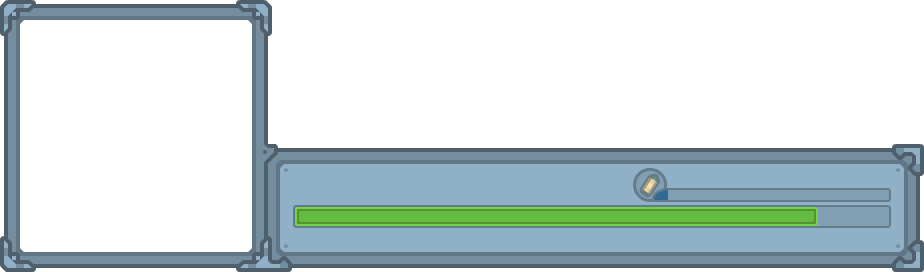
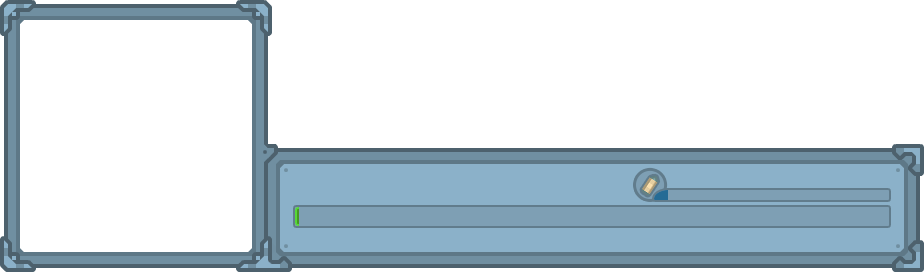
Add health and velocity client-server compensation

Changed region(s): [[0.303, 0.7353, 0.9091, 0.8529]]

diff --git a/src/Controller/GameController.php b/src/Controller/GameController.php
@@ -22,7 +22,7 @@ use App\Server\Protocol\Message;
 use App\Server\Protocol\SessionEstablish;
 use App\Server\Protocol\UpdateTank;
 use App\System\Texture;
-use App\Ui\Map;
+use App\Ui\UserInterface;
 use FFI\CData;
 use Serafim\SDL\Event;
 use Serafim\SDL\Kernel\Keyboard\ScanCode;
@@ -53,14 +53,14 @@ class GameController extends Controller
     private Texture $bg;
 
     /**
-     * @var Map|null
+     * @var UserInterface|null
      */
-    private ?Map $map = null;
+    private ?UserInterface $map = null;
 
     /**
-     * @var Connection
+     * @var Connection|null
      */
-    private Connection $connection;
+    private ?Connection $connection = null;
 
     /**
      * @var array|Tank[]
@@ -85,10 +85,47 @@ class GameController extends Controller
         $this->tanks = new TankLoader(self::RESOURCES_DIR);
         $this->guns = new GunLoader(self::RESOURCES_DIR);
         $this->bg = Texture::fromPathname(self::RESOURCES_DIR . '/bg.png');
+        $this->map = new UserInterface();
 
         parent::__construct();
 
         $this->connection = $this->connect($uri);
+        //$this->offline();
+    }
+
+    /**
+     * @return void
+     */
+    private function offline(): void
+    {
+        $this->tank = $this->createTank(
+            'tank/black/tank.json',
+            'gun/1/gun.json'
+        );
+
+        $this->map->addPlayerTank($this->tank);
+
+        $this->objects[] = $this->tank;
+    }
+
+    /**
+     * @param $message
+     */
+    private function send($message): void
+    {
+        if ($this->connection) {
+            $this->connection->write($message);
+        }
+    }
+
+    /**
+     * @param string $tank
+     * @param string $gun
+     * @return Tank
+     */
+    private function createTank(string $tank, string $gun): Tank
+    {
+        return $this->tanks->load($tank, $this->guns->load($gun));
     }
 
     /**
@@ -122,11 +159,13 @@ class GameController extends Controller
     private function onUpdateTank(UpdateTank $cmd): void
     {
         $tank = $this->objects[$cmd['id']];
-        $tank->dest->x = (float)$cmd['pos-x'];
-        $tank->dest->y = (float)$cmd['pos-y'];
+        $tank->dest->x = $cmd['pos-x'];
+        $tank->dest->y = $cmd['pos-y'];
+        $tank->velocity->x = $cmd['vel-x'];
+        $tank->velocity->y = $cmd['vel-y'];
         $tank->rotation->angle = (float)$cmd['angle'];
-        $tank->gun->rotation->angle =
-            $tank->gun->rotation->target = (float)$cmd['gun'];
+        $tank->gun->rotation->angle = $tank->gun->rotation->target
+            = (float)$cmd['gun'];
     }
 
     /**
@@ -134,13 +173,14 @@ class GameController extends Controller
      */
     private function onCreateTank(CreateTank $cmd): void
     {
-        $gun = $this->guns->load($cmd['gun']);
-        $tank = $this->tanks->load($cmd['tank'], $gun);
+        $tank = $this->createTank($cmd['tank'], $cmd['gun']);
 
         if ($cmd instanceof CreatePlayerTank) {
             $this->id = $cmd['id'];
             $this->tank = $tank;
-            $this->map = new Map($tank);
+            $this->map->addPlayerTank($tank);
+        } else {
+            $this->map->addEnemyTank($tank);
         }
 
         $tank->dest->x = $cmd['position.x'];
@@ -257,28 +297,38 @@ class GameController extends Controller
      */
     public function update(float $delta): void
     {
-        $this->connection->tick();
+        if ($this->connection) {
+            $this->connection->tick();
+        }
 
         foreach ($this->objects as $tank) {
             $tank->update($delta);
             $tank->limit(1920, 1080);
         }
 
-        if (!$this->map) {
+        $this->map->update();
+
+        if (! $this->tank) {
             return;
         }
 
-        $this->map->update();
+        $this->tank->health->current -= 1 * $delta;
+
+        if ($this->tank->health->current < 0) {
+            $this->tank->health->reset();
+        }
 
         $message = new UpdateTank([
             'id'    => $this->id,
             'pos-x' => (float)$this->tank->dest->x,
             'pos-y' => (float)$this->tank->dest->y,
+            'vel-x' => (float)$this->tank->velocity->x,
+            'vel-y' => (float)$this->tank->velocity->x,
             'angle' => (float)$this->tank->rotation->angle,
             'gun'   => (float)$this->tank->gun->rotation->angle,
         ]);
 
-        $this->connection->write($message);
+        $this->send($message);
     }
 
     /**

diff --git a/src/Ui/UserInterface.php b/src/Ui/UserInterface.php
@@ -17,10 +17,9 @@ use App\System\Texture;
 use FFI\CData;
 use Serafim\SDL\FRect;
 use Serafim\SDL\Kernel\Video\RendererFlip;
-use Serafim\SDL\Rect;
 use Serafim\SDL\SDL;
 
-class Map
+class UserInterface
 {
     use Kernel;
 
@@ -46,18 +45,19 @@ class Map
     private CData $reloadingDest;
 
     /**
-     * @var Tank
+     * @var Tank|null
      */
-    private Tank $tank;
+    private ?Tank $tank = null;
 
     /**
-     * @param Tank $tank
+     * @var Tank[]
      */
-    public function __construct(Tank $tank)
+    private array $enemyTanks = [];
+
+    public function __construct()
     {
         $this->bootKernel();
 
-        $this->tank = $tank;
         $this->bg = Texture::fromPathname(self::ROOT . '/bg.png');
         $this->overlay = Texture::fromPathname(self::ROOT . '/overlay.png');
         $this->user = Texture::fromPathname(self::ROOT . '/player.png');
@@ -96,15 +96,26 @@ class Map
         $this->userDest->y = 30;
     }
 
+    /**
+     * @param Tank $tank
+     */
+    public function addEnemyTank(Tank $tank): void
+    {
+        $this->enemyTanks[] = $tank;
+    }
+
+    public function addPlayerTank(Tank $tank): void
+    {
+        $this->tank = $tank;
+    }
+
     public function update(): void
     {
-        $this->userDest->x = $this->tank->dest->x / 1920 * 110 + 10 + $this->uiDest->x;
-        $this->userDest->y = $this->tank->dest->y / 1080 * 110 + 10 + $this->uiDest->y;
+        if ($this->tank) {
+            $delta = $this->tank->gun->shot->reloading / $this->tank->gun->shot->speed;
 
-        //
-        $delta = $this->tank->gun->shot->reloading / $this->tank->gun->shot->speed;
-
-        $this->reloadingDest->w = self::RELOADING_MAX - $delta * self::RELOADING_MAX;
+            $this->reloadingDest->w = self::RELOADING_MAX - $delta * self::RELOADING_MAX;
+        }
     }
 
     public function render(): void
@@ -116,15 +127,35 @@ class Map
             SDL::addr($this->vp->transform($this->mapDest, false))
         );
 
-        $this->sdl->SDL_RenderCopyExF(
-            $this->renderer->ptr,
-            $this->user->ptr,
-            null,
-            SDL::addr($this->vp->transform($this->userDest, false)),
-            $this->tank->rotation->angle,
-            SDL::addr($this->userCenter),
-            RendererFlip::SDL_FLIP_NONE
-        );
+        if ($this->tank !== null) {
+            $this->userDest->x = $this->tank->dest->x / 1920 * 110 + 10 + $this->uiDest->x;
+            $this->userDest->y = $this->tank->dest->y / 1080 * 110 + 10 + $this->uiDest->y;
+
+            $this->sdl->SDL_RenderCopyExF(
+                $this->renderer->ptr,
+                $this->user->ptr,
+                null,
+                SDL::addr($this->vp->transform($this->userDest, false)),
+                $this->tank->rotation->angle,
+                SDL::addr($this->userCenter),
+                RendererFlip::SDL_FLIP_NONE
+            );
+        }
+
+        foreach ($this->enemyTanks as $enemy) {
+            $this->userDest->x = $enemy->dest->x / 1920 * 110 + 10 + $this->uiDest->x;
+            $this->userDest->y = $enemy->dest->y / 1080 * 110 + 10 + $this->uiDest->y;
+
+            $this->sdl->SDL_RenderCopyExF(
+                $this->renderer->ptr,
+                $this->enemy->ptr,
+                null,
+                SDL::addr($this->vp->transform($this->userDest, false)),
+                $enemy->rotation->angle,
+                SDL::addr($this->userCenter),
+                RendererFlip::SDL_FLIP_NONE
+            );
+        }
 
         $this->sdl->SDL_RenderCopyF(
             $this->renderer->ptr,

diff --git a/src/Model/Tank.php b/src/Model/Tank.php
@@ -11,8 +11,8 @@ declare(strict_types=1);
 
 namespace App\Model;
 
-use App\Math\Utils;
 use App\Model\Tank\GunPosition;
+use App\Model\Tank\Health;
 use App\Model\Tank\Rotation;
 use App\Model\Tank\State;
 use App\Model\Tank\Velocity;
@@ -37,12 +37,17 @@ class Tank extends Model
     /**
      * @var float
      */
-    public float $friction = 1.002;
+    public float $friction = 1.01;
 
     /**
      * @var float|int
      */
     public float $speed = 300;
+
+    /**
+     * @var Health
+     */
+    public Health $health;
 
     /**
      * @var int
@@ -81,6 +86,7 @@ class Tank extends Model
         $this->texture = $texture;
         $this->velocity = new Velocity();
         $this->rotation = new Rotation();
+        $this->health = new Health();
         $this->gunPosition = new GunPosition();
         $this->dest = $this->sdl->new(FRect::class);
 

diff --git a/src/Model/Tank/Health.php b/src/Model/Tank/Health.php
@@ -1,0 +1,23 @@
+<?php
+
+/**
+ * This file is part of Tankz package.
+ *
+ * For the full copyright and license information, please view the LICENSE
+ * file that was distributed with this source code.
+ */
+
+declare(strict_types=1);
+
+namespace App\Model\Tank;
+
+class Health
+{
+    public float $max = 100;
+    public float $current = 100;
+
+    public function reset(): void
+    {
+        $this->current = $this->max;
+    }
+}

diff --git a/src/Application.php b/src/Application.php
@@ -88,7 +88,7 @@ class Application implements WorkerInterface
         $this->controller = new GameController($uri);
 
         $this->window->show();
-        $this->loop->run(60, 128);
+        $this->loop->run(60, 60);
     }
 
     /**
